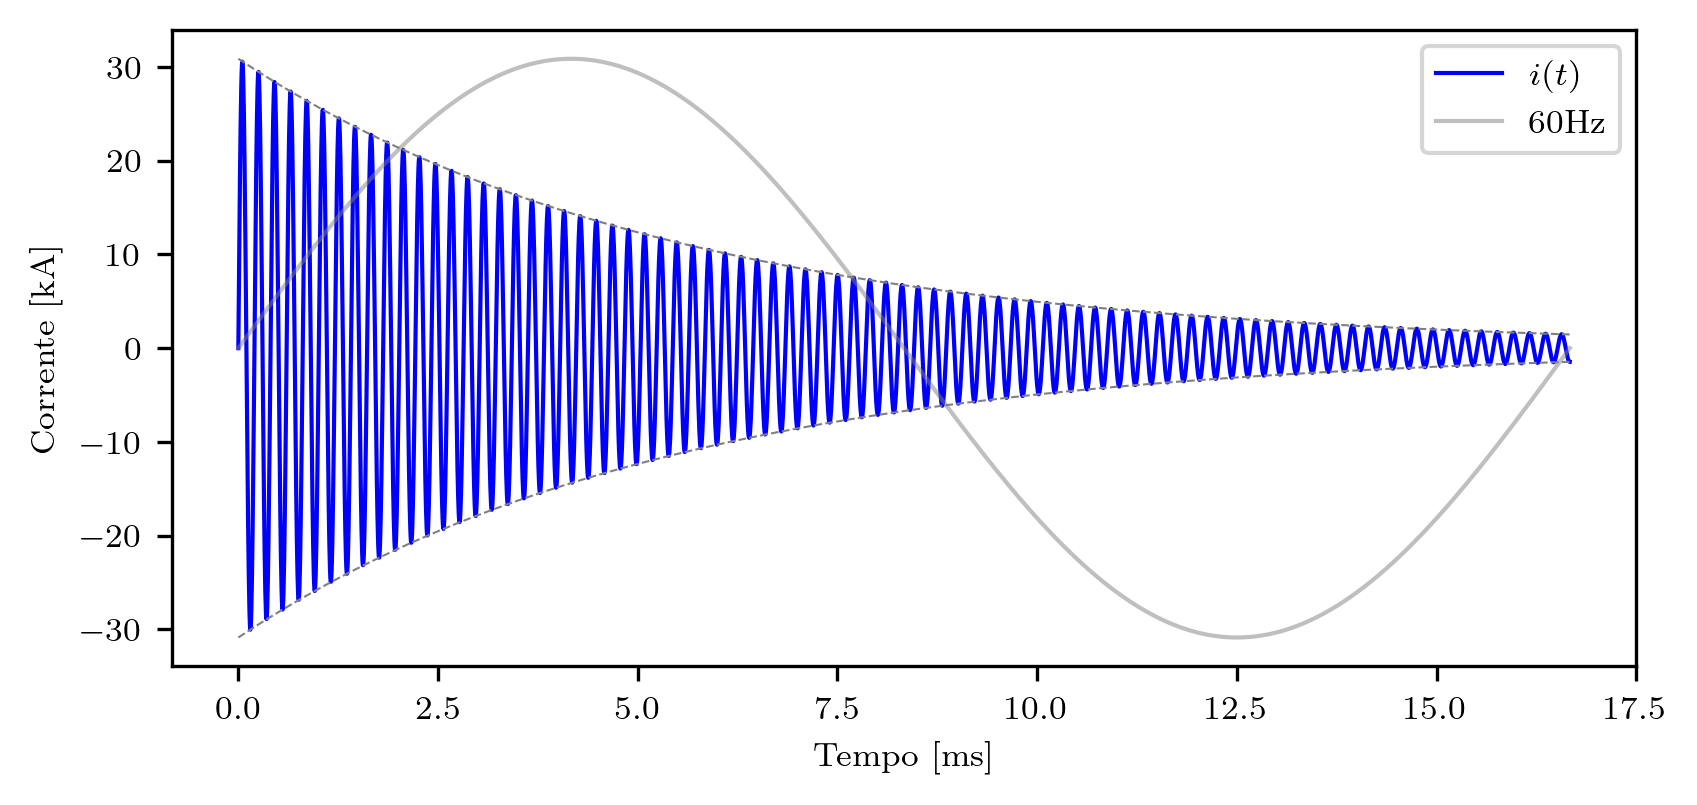
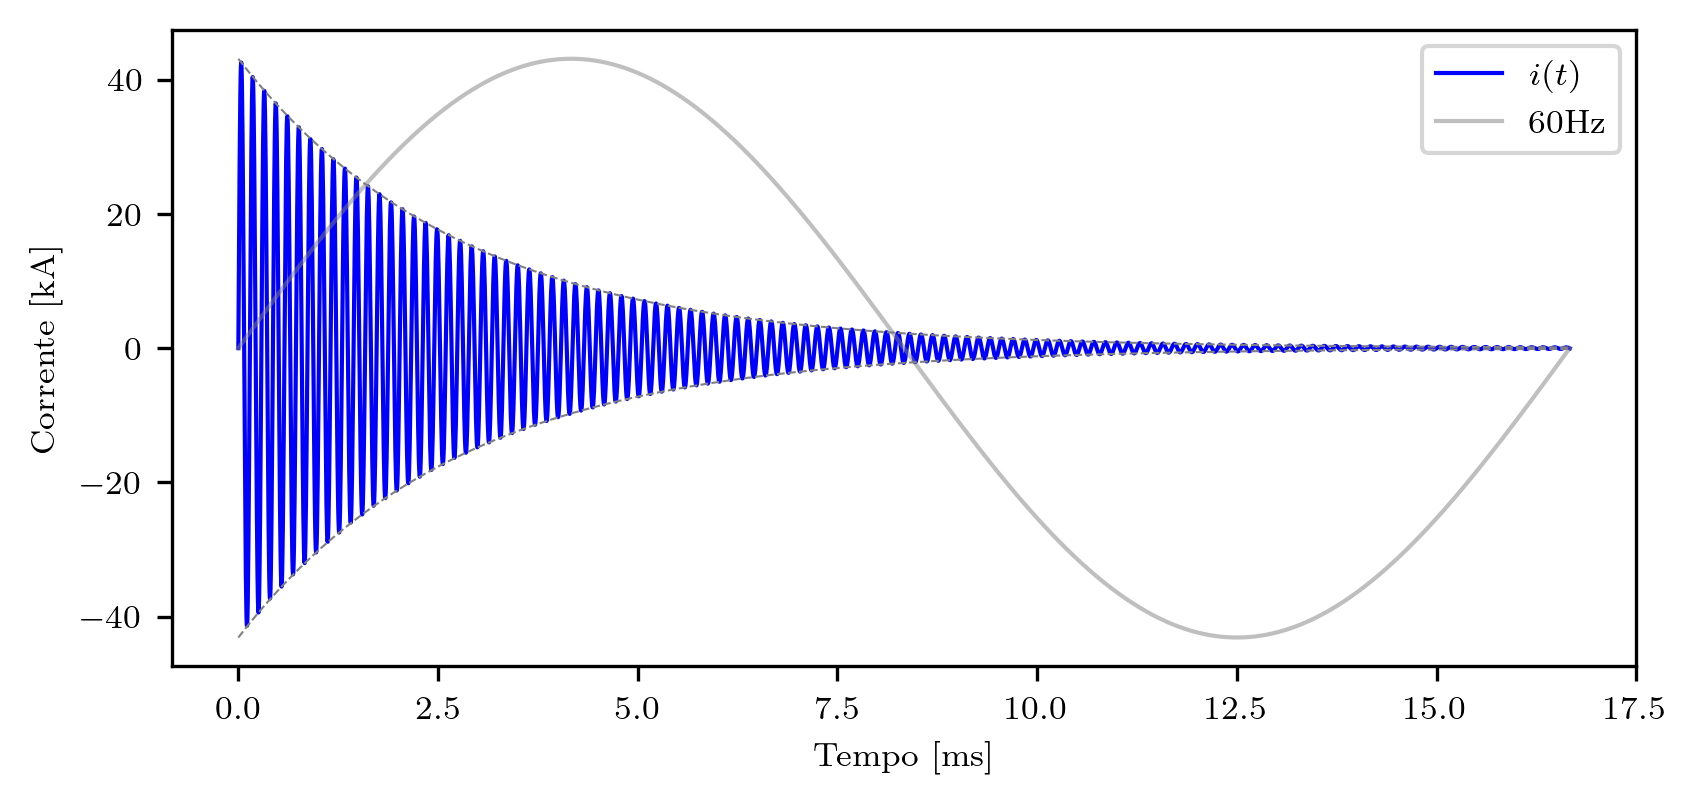
corrente de pico de cada estágio individualmente

diff --git a/Relatorio_Inrush_DAX.tex b/Relatorio_Inrush_DAX.tex
@@ -105,10 +105,10 @@ A energização de um banco de capacitores (Figura \ref{fig:picture1}) pelo fech
 \toprule
  & $Q_{3\phi}$ & $Q_{1\phi}$ & $V_{3\phi}$ & $V_{1\phi}$ & $I_{1\phi}$ & $X_{1\phi}$ & $C_{1\phi}$ & $L_{1\phi}$ & $I_{p}/I_{n}$ & $f_{0}$ \\
 \midrule
-0 & $100$ MVAr & $33$ MVAr & $230$ kV & $133$ kV & $251$ A & $529.0$ $\Omega$ & $5.01$ µF & $265$ µH & $21.7$ & $928$ Hz \\
-1 & $111$ MVAr & $37$ MVAr & $230$ kV & $133$ kV & $279$ A & $476.6$ $\Omega$ & $5.57$ µF & $265$ µH & $46.6$ & $4$ kHz \\
-2 & $95$ MVAr & $32$ MVAr & $230$ kV & $133$ kV & $238$ A & $556.8$ $\Omega$ & $4.76$ µF & $1$ µH & $86.2$ & $5$ kHz \\
-3 & $95$ MVAr & $32$ MVAr & $230$ kV & $133$ kV & $238$ A & $556.8$ $\Omega$ & $4.76$ µF & $1$ µH & $91.5$ & $5$ kHz \\
+0 & $100$ MVAr & $33$ MVAr & $230$ kV & $133$ kV & $251$ A & $529.0$ $\Omega$ & $5.01$ µF & $100$ µH & $22.0$ & $942$ Hz \\
+1 & $111$ MVAr & $37$ MVAr & $230$ kV & $133$ kV & $279$ A & $476.6$ $\Omega$ & $5.57$ µF & $100$ µH & $74.8$ & $7$ kHz \\
+2 & $95$ MVAr & $32$ MVAr & $230$ kV & $133$ kV & $238$ A & $556.8$ $\Omega$ & $4.76$ µF & $100$ µH & $114.1$ & $7$ kHz \\
+3 & $95$ MVAr & $32$ MVAr & $230$ kV & $133$ kV & $238$ A & $556.8$ $\Omega$ & $4.76$ µF & $100$ µH & $127.8$ & $7$ kHz \\
 \bottomrule
 \end{tabular}
 
@@ -143,15 +143,15 @@ Essa corrente oscilatória é limitada apenas pela impedância do banco de capac
 	\label{fig:picture2}
 \end{figure}
 
-São os valores obtidos com o reator escolhido ($L_{reator} = $265.0$ \, \mu \rm{H} $):
+São os valores obtidos com o reator escolhido ($L_{reator} = $100.0$ \, \mu \rm{H} $):
 \begin{itemize}[label=\textendash]
-	\item	Corrente de pico: $31$ kA;
-	\item	Frequência de Oscilação: $5.0$ kHz;
-	\item	Corrente inrush / Corrente nominal: $91.5$
+	\item	Corrente de pico: $43$ kA;
+	\item	Frequência de Oscilação: $6.9$ kHz;
+	\item	Corrente inrush / Corrente nominal: $127.8$
 \end{itemize}
 
 \section{Conclusão}
-Reator adequado, conforme IEEE Std C37.012, p\'{a}gina 16.
+Reator n\~{a}o adequado, conforme IEEE Std C37.012, p\'{a}gina 16.
 
 \section{Referências}
 

diff --git a/back_to_back_v5.py b/back_to_back_v5.py
@@ -11,7 +11,7 @@ from engineering_notation import EngNumber
 import os
 import shutil
 import matplotlib as mpl
-mpl.rcParams['text.usetex'] = True
+# mpl.rcParams['text.usetex'] = True
 mpl.rcParams['font.family'] = 'serif'  # ou 'sans-serif'
 # ===================================================================================
 def substituir_valores(arquivo_tex, valores):
